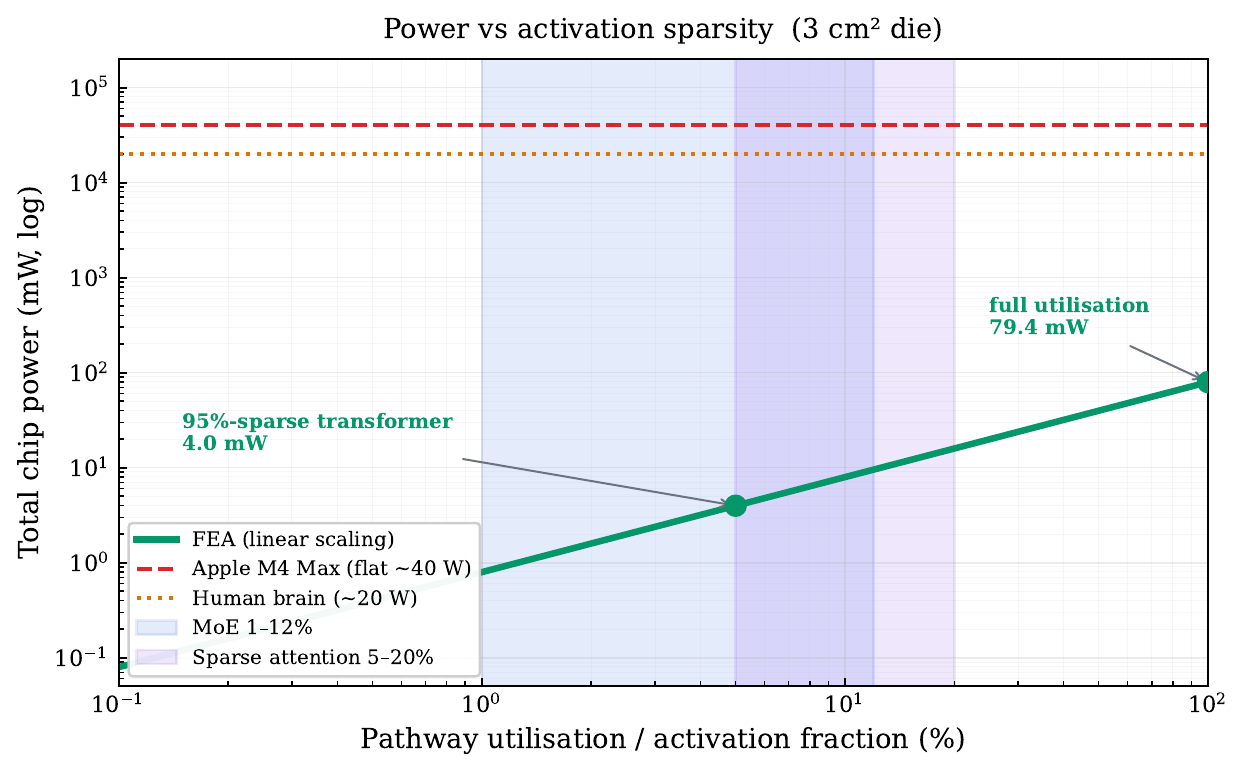
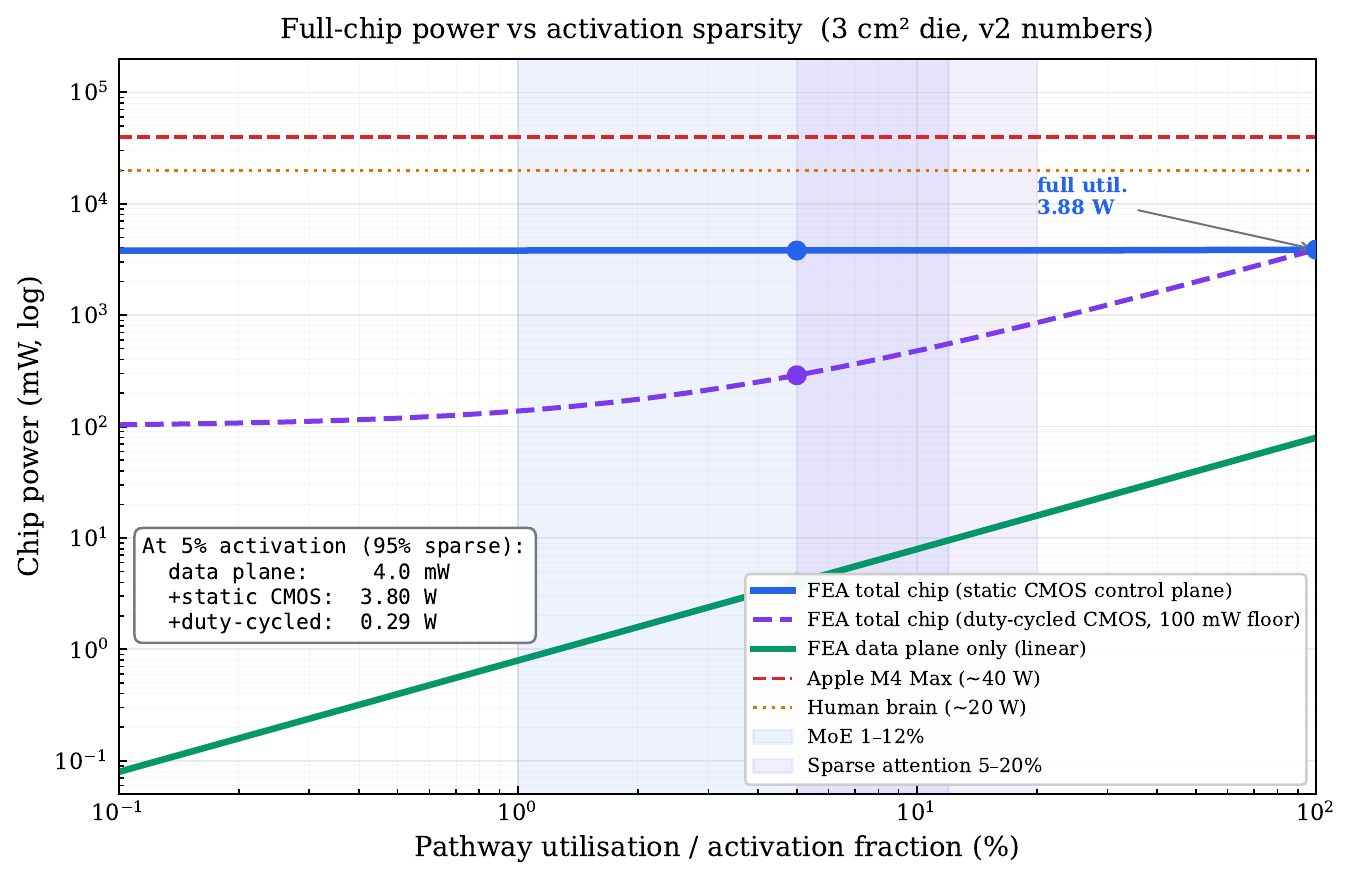
README/fig9: full-chip sparsity numbers, not just data-plane
The previous sparsity figure and README text only reported the
data-plane power (~4 mW at 5% activation), which is honest but
misleading — it omits the CMOS control plane that dominates total
chip power. Replace with three curves:

- Data plane only (green, linear): ~4 mW at 5% activation
- Full chip, static CMOS (blue): ~3.81 W at 5% activation (floored
  by the ~3.3 W PLL distribution + ~0.5 W decoder/sequencer)
- Full chip, duty-cycled CMOS (purple): ~0.29 W at 5% activation
  assuming a 100 mW always-on floor and the rest scaling linearly

All three numbers are now visible side-by-side in a callout box on
the figure and tabulated in the README. The honest take: the data
plane is ~500× more efficient than CMOS for sparse compute in all
cases; capturing that at the chip level requires control-plane
duty-cycling, which is a standard engineering problem rather than
a physics limitation.

Also applies the same update to the NE article (§4.8 Sparse
Activation) and its Fig 5 caption. Paper recompiles clean at 13
pages / 3,017 words main text.

diff --git a/README.md b/README.md
@@ -152,14 +152,22 @@ The ARM/FIRE/CONFIRM + SLINGSHOT + BRANCH instruction set supports arithmetic, u
 **Chip scale.**
 A 3 cm² M4-Max-sized die hosts 1.13 × 10¹⁴ Fusion Blocks and 14.1 TB of in-situ memory. The data plane alone dissipates 79.4 mW (approximately 500× lower than an M4 Max GPU on the same die area); total chip power including the CMOS control-plane estimate is **~3.8 W (approximately 10× lower than M4 Max)**. Monte Carlo simulation on the full die confirms 99.99% compute utilisation under periodic refresh at 300 K. The 2D thermal solver shows ΔT ≈ 1 K at worst-case hot spots with CMOS power included.
 
-**Sparse workloads.**
-Because only addressed pathways consume active power, FEA has no dark-silicon floor in the data plane. A 95%-sparse transformer dissipates approximately 4 mW on the full 3 cm² die — a regime in which CMOS cannot exploit workload sparsity for power reduction because its clock network and cache leakage impose a fixed floor.
+**Sparse workloads — full-chip honesty.**
+The data plane has no dark-silicon floor: a 95%-sparse transformer dissipates only ~4 mW in the data plane on a full 3 cm² die. **But that is only the data-plane number.** At the full-chip level, the CMOS control-plane estimate (~3.8 W, dominated by PLL distribution) dominates unless it is actively duty-cycled. The three relevant numbers at 5% activation are:
+
+| Measurement | Power at 5% activation |
+|---|---|
+| Data plane only (green curve below) | **~4 mW** |
+| Full chip, static CMOS (blue curve) | **~3.81 W** |
+| Full chip, duty-cycled CMOS, 100 mW floor (purple curve) | **~0.29 W** |
+
+In all scenarios, the data-plane itself is ~500× more energy-efficient than CMOS equivalents for sparse compute. Capturing that advantage at the chip level is a control-plane engineering problem, not a physics limitation.
 
 <p align="center">
-  <img src="docs/img/power_vs_sparsity.png" width="75%" alt="Total chip power vs activation fraction; FEA scales linearly while CMOS and the human brain are flat">
+  <img src="docs/img/power_vs_sparsity.png" width="85%" alt="Full-chip power vs activation fraction, three FEA curves plus CMOS and brain references">
 </p>
 
-<p align="center"><em>Total chip power vs pathway utilisation / activation fraction (3 cm² die, log–log). FEA data-plane power scales linearly; Apple M4 Max (dashed red) and the human brain (dotted orange) are flat references at ~40 W and ~20 W respectively.</em></p>
+<p align="center"><em>Full-chip power vs pathway utilisation / activation fraction (3 cm² die, log–log). Three FEA curves: data plane only (green, linear), total chip with static CMOS (blue, 3.8 W floor), total chip with duty-cycled CMOS (purple, 100 mW floor). Apple M4 Max and the human brain are flat references.</em></p>
 
 ---
 
